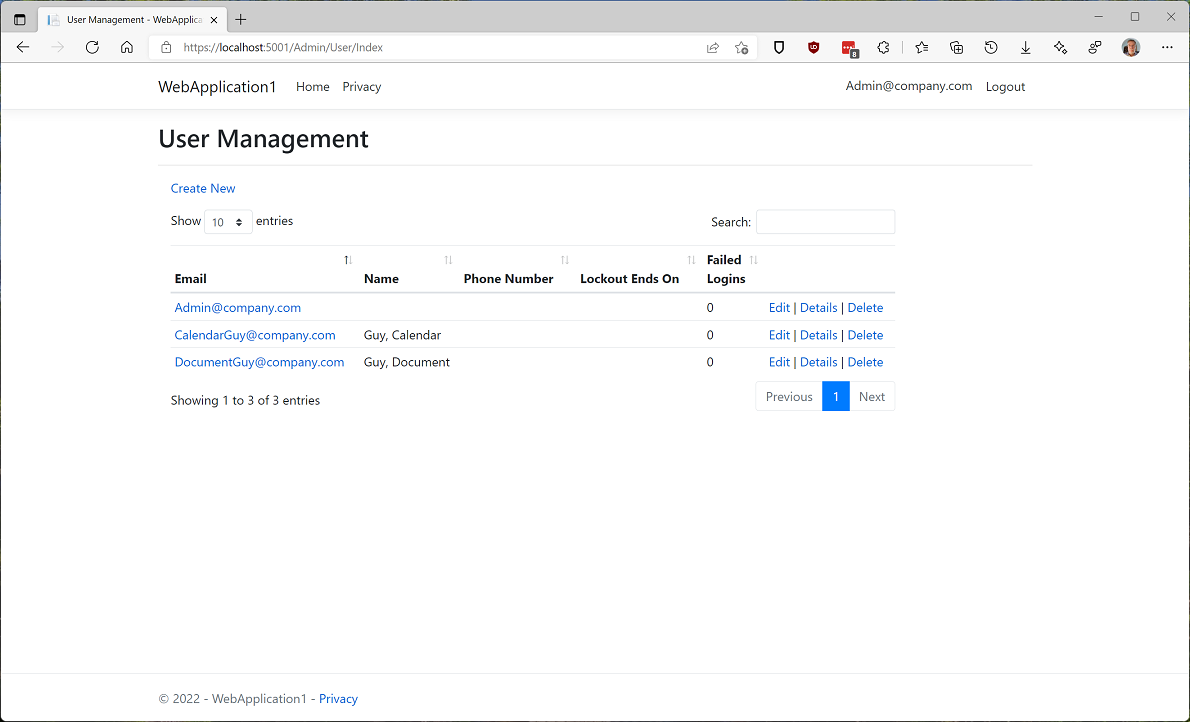
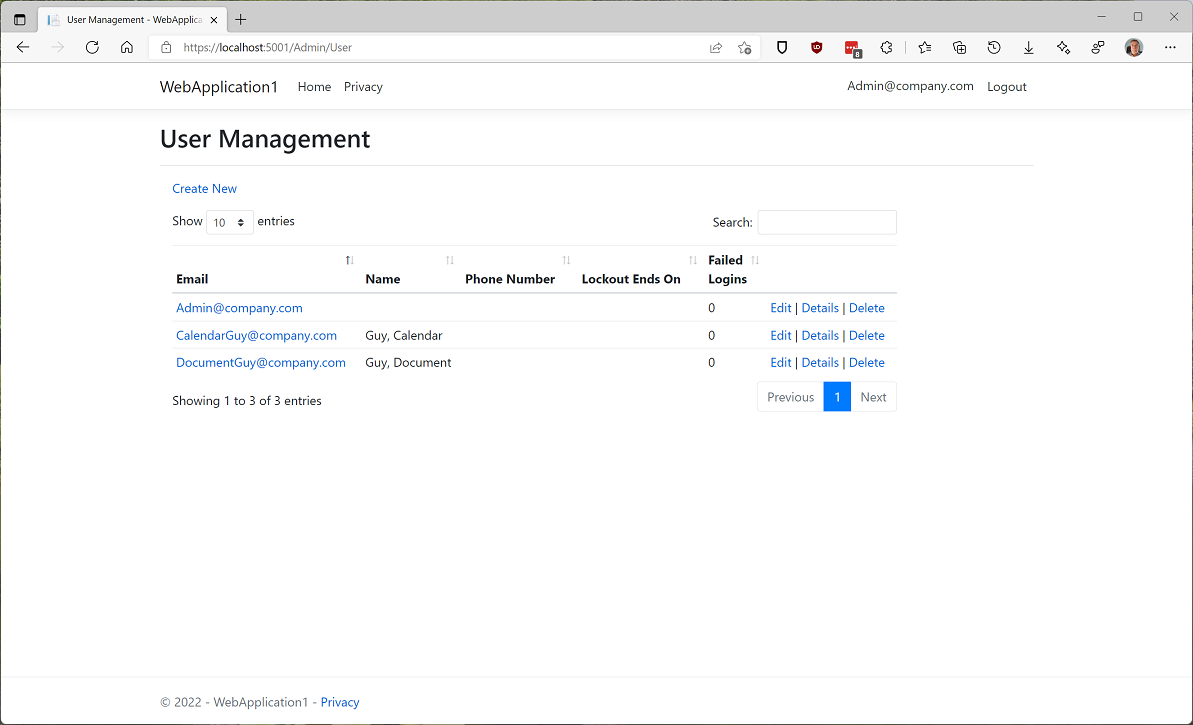
Flesh out the User and Role Management pages.

diff --git a/docs/UI-Role-Management-Page.md b/docs/UI-Role-Management-Page.md
@@ -1,4 +1,4 @@
-# Role Management User Interface
+# Role Management Pages
 
 The Authorization.Core.UI package provides a user interface for managing your application's Roles.
 Each Role defines a collection of access right claims that control what a particular group of users 
@@ -6,38 +6,70 @@ are allowed to do.
 
 ## Role Management Page
 
-The Role Management Page is the landing page for all Role management functions.
+The Role Management page is the landing page for all Role management functions.
 
 The default Area for the page is `Authorization`, however it can be changed by specifying a different 
 value for the `options.FriendlyAreaName` property of the `AddAuthorizationCoreUI` clause 
 as described in [Update Startup.cs](Install-UI-Package.md#update-startupcs-programcs-in-net-60).
 
-Our sample web application specifies "Admin" for FriendlyAreaName. As a result, the Role Management 
-Page is located at ```https://localhost:5001/Admin/Role``` (as seen in the screen capture below).
+Our sample web application specifies "Admin" for FriendlyAreaName. As a result, the application's Role 
+Management page is located at `https://localhost:5001/Admin/Role` (as seen in the screen capture 
+below).
 
 The following links are available on this page:
 
   |**Link**|**Action**|
   |---|---|
-  |Create New| Displays Create Role page. Used to configure a new Role.|
-  |Edit|Displays Edit Role page. Used to edit the associated Role.|
-  |Details|Displays Role Details page. Used to view the details of the associated Role.|
-  |Delete|Displays Delete Role page. Used to delete the associated Role.|
+  |Create New| Displays Create Role page which is used to configure a new Role.|
+  |Edit|Displays Edit Role page which is used to edit the associated Role.|
+  |Details|Displays Role Details page which is used to view the details of the associated Role.|
+  |Delete|Displays Delete Role page which can be used to delete the associated Role.|
 
+&nbsp;
 ![Role Management Page](../assets/Role-Management-Page.png)
 
 ## Create Role Page
 
+The Create Role page is used to configure a new Role.
+You enter a name, an optional description, and select the claims for the Role.
+The Search text box can be used to filter the displayed claims.
+
+Click the `Create` button to save the Role, or `Back to List` to cancel the operation.
+
+&nbsp;
 ![Create Role Page](../assets/Role-Create-Page.png)
 
 ## Edit Role Page
 
+The Edit Role page is used to make changes to a Role. You can change the Role's name and description.
+When editing a system Role (like "Administrator" or "RoleManager"), the list of claims will be disabled;
+otherwise, the assigned claims can also be changed.
+
+When your changes are complete, click `Save` to save the Role, or `Back to List` to cancel the operation.
+
+&nbsp;
 ![Edit Role Page](../assets/Role-Edit-Page.png)
 
 ## Role Details Page
 
+The Role Details page is used to view a Role's configuration.
+The page displays the Role's Id, Name, Description, and its claim assignments.
+
+When done, click `Edit` to go to the Edit Role page, or `Back to List` to return to the Role 
+Management page.
+
+&nbsp;
 ![Role Details Page](../assets/Role-Details-Page.png)
 
 ## Delete Role Page
 
+The Delete Role page is used to delete the selected Role. In addition to the Role's Id, Name, and 
+Description, the page lists any Users that are assigned to the Role.
+
+The page will not allow a system Role to be deleted (a warning message is displayed and the Delete button 
+is disabled).
+
+Click `Delete` to delete the Role, or `Back to List` to cancel the operation.
+
+&nbsp;  
 ![Delete Role Page](../assets/Role-Delete-Page.png)

diff --git a/docs/UI-User-Management-Page.md b/docs/UI-User-Management-Page.md
@@ -1,21 +1,74 @@
-# User Management
+# User Management Pages
+
+The Authorization.Core.UI package provides a user interface for managing your application's Users.
+Each User can be assigned one or more Roles that control what that user can do.
 
 ## User Management Page
 
+The User Management page is the landing page for all User management functions.
+
+The default Area for the page is `Authorization`, however it can be changed by specifying a different 
+value for the `options.FriendlyAreaName` property of the `AddAuthorizationCoreUI` clause 
+as described in [Update Startup.cs](Install-UI-Package.md#update-startupcs-programcs-in-net-60).
+
+Our sample web application specifies "Admin" for FriendlyAreaName. As a result, the application's User 
+Management page is located at `https://localhost:5001/Admin/User` (as seen in the screen capture 
+below).
+
+The following links are available on this page:
+
+  |**Link**|**Action**|
+  |---|---|
+  |Create New| Displays the Create User page which is used to configure a new User.|
+  |Edit|Displays the Edit User page which is used to edit the associated User.|
+  |Details|Displays the User Details page which is used to view the details of the associated User.|
+  |Delete|Displays the Delete User page which can be used to delete the associated User.|
+
+&nbsp;
 ![User Management Page](../assets/User-Management-Page.png)
 
 ## Create User Page
 
+The Create User page is used to configure a new User.
+You enter the user's personal information, and select one or more Roles for the User.
+The Search text box can be used to filter the displayed claims.
+
+Click the `Create` button to save the User, or `Back to List` to cancel the operation.
+
+&nbsp;
 ![Create User Page](../assets/User-Create-Page.png)
 
 ## Edit User Page
 
+The Edit User page is used to make changes to a User. You can change the User's personal information.
+When editing a system User (like "Administrator"), the list of Roles will be disabled;
+otherwise, the assigned Roles can also be changed.
+
+When your changes are complete, click `Save` to save the User, or `Back to List` to cancel the operation.
+
+&nbsp;
 ![Edit User Page](../assets/User-Edit-Page.png)
 
 ## User Details Page
 
+The User Details page is used to view a User's configuration.
+The page displays the User's personal information and Role assignments.
+
+When done, click `Edit` to go to the Edit User page, or `Back to List` to return to the User 
+Management page.
+
+&nbsp;
 ![User Details Page](../assets/User-Details-Page.png)
 
 ## Delete User Page
 
+The Delete User page is used to delete the selected User. In addition to the User's personal information,  
+the page lists any Roles that are assigned to the User.
+
+The page will not allow a system User to be deleted (a warning message is displayed and the Delete button 
+is disabled).
+
+Click `Delete` to delete the User, or `Back to List` to cancel the operation.
+
+&nbsp;  
 ![Delete User Page](../assets/User-Delete-Page.png)

diff --git a/README.md b/README.md
@@ -23,9 +23,9 @@ provide similar functionality for your application.
 If you will be installing the Authorization.Core.UI package, you can skip ahead to the next section. 
 Otherwise, you can use the following steps to install and configure the Core package.
 
-1.   [Install the Authorization.Core package](docs/Install-Core-Package.md)
-2.   [Configure your Roles and Users](docs/Configure-Core-Roles-and-Users.md)
-3.   [Testing and Enforcing Authorization](docs/Enforcing-Authorization.md)
+1. [Install the Authorization.Core package](docs/Install-Core-Package.md)
+2. [Configure your Roles and Users](docs/Configure-Core-Roles-and-Users.md)
+3. [Testing and Enforcing Authorization](docs/Enforcing-Authorization.md)
 
 ## The Authorization.Core.UI Package
 
@@ -37,5 +37,11 @@ classes that derive from `AuthDbContext` and `AuthDbContext<TUser, TRole>` respe
 
 The following steps can be used to install and configure the package.
 
-1.   [Installing the Authorization.Core.UI package](docs/Install-UI-Package.md)
-2.   [Configure your Roles and Users](docs/Configure-UI-Roles-and-Users.md)
+1. [Installing the Authorization.Core.UI package](docs/Install-UI-Package.md)
+2. [Configure your Roles and Users](docs/Configure-UI-Roles-and-Users.md)
+3. [Testing and Enforcing Authorization](docs/Enforcing-Authorization.md)
+
+The following sections describe the UI package's management pages.
+
+- [Role Management Pages](docs/UI-Role-Management-Page.md)
+- [User Management Pages](docs/UI-User-Management-Page.md)
